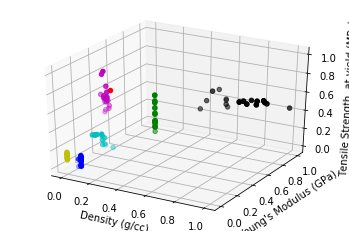
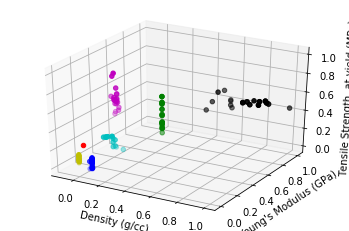
normalizes user input

diff --git a/Final_Project.py b/Final_Project.py
@@ -54,7 +54,6 @@ def readDataFile(filename):
 
 def normalize(density, modulus, strength, data_array):
     d_min = min(density)
-
     d_max = max(density)
     m_min = min(modulus)
     m_max = max(modulus)
@@ -69,12 +68,15 @@ def normalize(density, modulus, strength, data_array):
     for index in range(len(strength)):
         strength[index] = (strength[index]- s_min)/(s_max - s_min)
         data_array[index, 2] = strength[index]   
-    return density, modulus, strength, data_array
+    return density, modulus, strength, data_array, d_min, d_max, m_min, m_max, s_min, s_max
 
-def userData():
+def userData(d_min, d_max, m_min, m_max, s_min, s_max):
     density = input("What is the material's density? ")
     modulus = input("What is the material's modulus of elasticity? ")
     strength = input("What is the material's yield tensile strength? ")
+    density = (float(density) - d_min)/(d_max - d_min)
+    modulus = (float(modulus) - m_min)/(m_max - m_min)
+    strength = (float(strength) - s_min)/(s_max - s_min)
     test_array = np.zeros((1,3))
     test_array[0,0] = float(density)
     test_array[0,1] = float(modulus)
@@ -170,8 +172,8 @@ def graphdata3D(density, modulus, strength, classification, test_array):
 
 #Call functions
 den, mod, stren, classif, prop_array = readDataFile("data.csv")
-den, mod, stre, prop_array = normalize(den, mod, stren, prop_array)
-test_case = userData()
+den, mod, stren, prop_array, d_min, d_max, m_min, m_max, s_min, s_max = normalize(den, mod, stren, prop_array)
+test_case = userData(d_min, d_max, m_min, m_max, s_min, s_max)
 graphdata2D(den, mod, stren, classif, test_case)    
 graphdata3D(den, mod, stren, classif, test_case)
 
